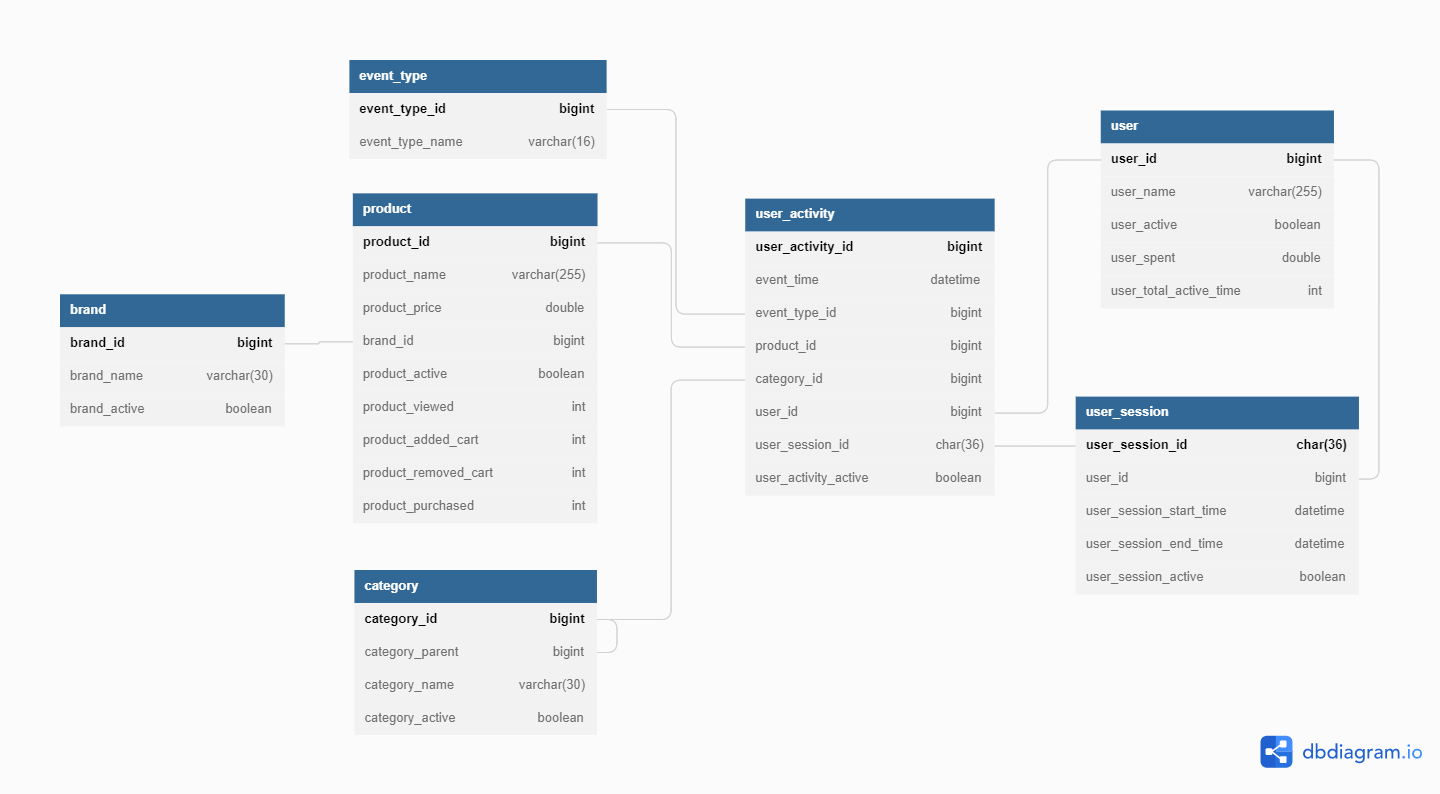
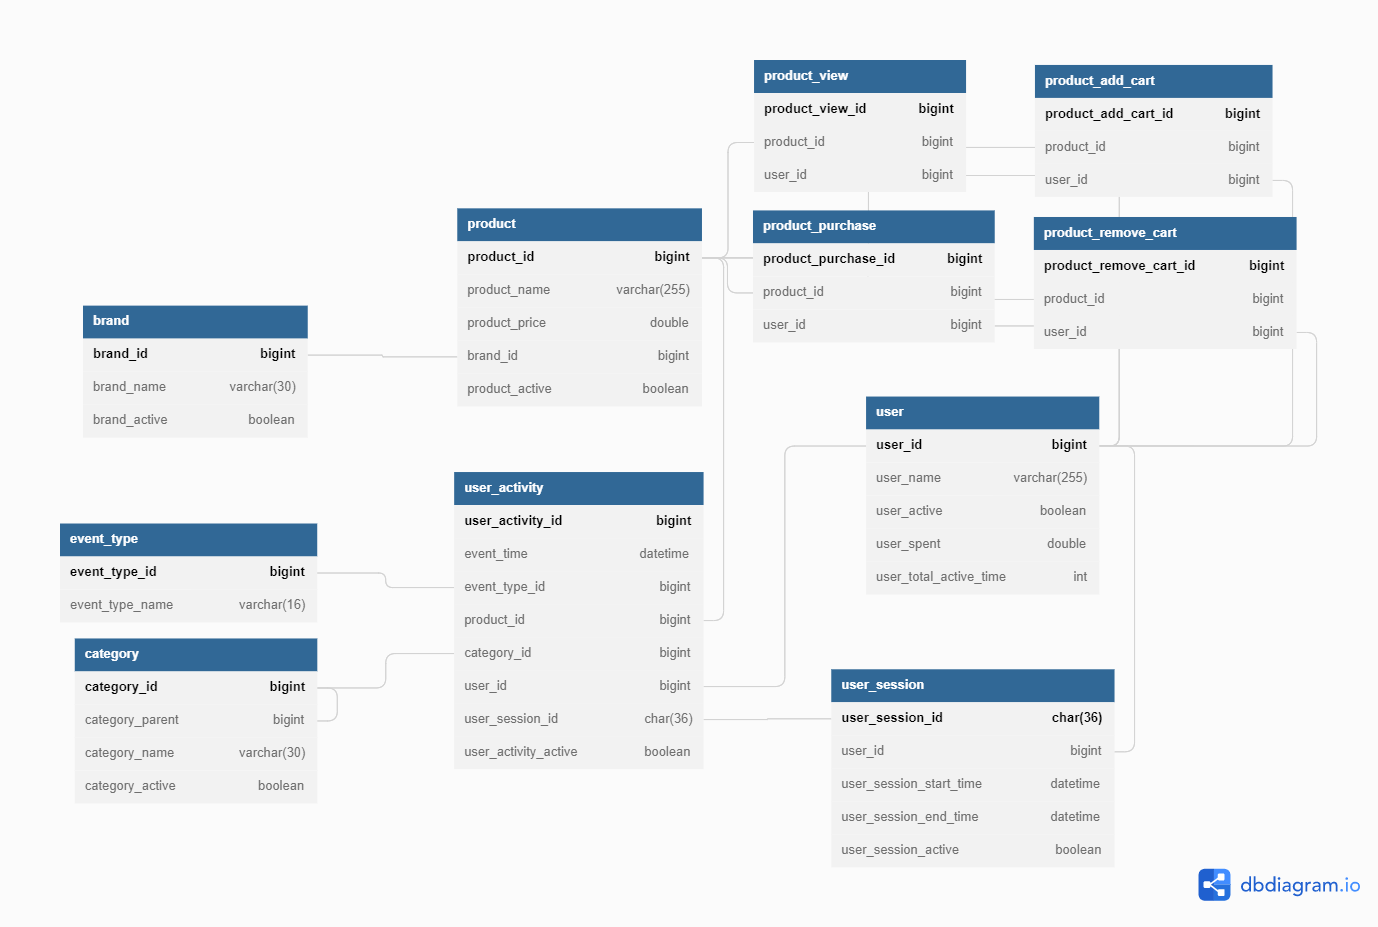
remove event_type lookup in add_user_activity
made it static instead

diff --git a/eCommerce Data Analytics/sql_commands.py b/eCommerce Data Analytics/sql_commands.py
@@ -209,7 +209,7 @@ class SQL:
             # if user_id == None:
             #     raise ValueError("No value for user_id found")
             
-            query = f"INSERT INTO user (user_id, user_name) VALUES ({user_id}, '{user_name}')"
+            query = f"INSERT IGNORE INTO user (user_id, user_name) VALUES ({user_id}, '{user_name}')"
             self.cursor.execute(query)
             self.conn.commit()
         except Exception as e:
@@ -233,7 +233,7 @@ class SQL:
             # if 'user_total_active_time' in data.keys() and not type(data['user_total_active_time']) == int:
             #     raise TypeError("user_total_active_time is not an integer")
             
-            query = self.combine_query_user('user', user_id, data)
+            query = self.combine_query('user', user_id, data)
             self.cursor.execute(query)
             self.conn.commit()
         except Exception as e:
@@ -377,8 +377,7 @@ class SQL:
             if not self.fromTable_id_exists('product', product_id):
                 raise ValueError("product_id does not exist in the database")
             for key in data.keys():
-                if key not in ['product_name', 'product_price', 'brand_id', 'product_active',
-                'product_viewed', 'product_added_cart', 'product_removed_cart', 'product_purchased']:
+                if key not in ['product_name', 'product_price', 'brand_id', 'product_active']:
                     raise NameError(f"{key} is not an acceptable variable for modifying product")
             if 'product_name' in data.keys() and (type(data['product_name']) != str or data["product_name"] == None):
                 raise TypeError("product_name is not a string")
@@ -391,27 +390,6 @@ class SQL:
                     raise TypeError("brand_id is not an string")
             if 'product_active' in data.keys() and type(data['product_active']) != bool:
                 raise TypeError("product_active is not a boolean")
-            if 'product_viewed' in data.keys():
-                if type(data['product_viewed']) != int:
-                    raise TypeError("product_viewed is not an integer")
-                if data['product_viewed'] < 0:
-                    raise ValueError("product_viewed cannot be less than 0")
-            if 'product_added_cart' in data.keys():
-                if type(data['product_added_cart']) != int:
-                    raise TypeError("product_added_cart is not an integer")
-                if data['product_added_cart'] < 0:
-                    raise ValueError("product_added_cart cannot be less than 0")
-            if 'product_removed_cart' in data.keys():
-                if type(data['product_removed_cart']) != int:
-                    raise TypeError("product_removed_cart is not an integer")
-                if data['product_removed_cart'] < 0:
-                    raise ValueError("product_removed_cart cannot be less than 0")
-            if 'product_purchased' in data.keys():
-                if type(data['product_purchased']) != int:
-                    raise TypeError("product_purchased is not an integer")
-                if data['product_purchased'] < 0:
-                    raise ValueError("product_purchased cannot be less than 0")
-            
             query = self.combine_query('product', product_id, data)
             self.cursor.execute(query)
             self.conn.commit()
@@ -432,8 +410,14 @@ class SQL:
             #     raise ValueError("user_session_id does not exist")
             # if category_id and not self.fromTable_id_exists('category',category_id):
             #     raise ValueError("category_id does not exist in the database")
-
-            event_type_id = self.getId_from_name('event_type', event_type)
+            if event_type == "view":
+                event_type_id = 1
+            elif event_type == "cart":
+                event_type_id = 2
+            elif event_type == "remove_from_cart":
+                event_type_id = 3
+            else:
+                event_type_id = 4
             if category_id: 
                 query = "INSERT INTO user_activity (event_time, event_type_id, product_id, category_id, " \
                     "user_id, user_session_id) VALUES " \
@@ -489,7 +473,7 @@ class SQL:
             print(e)
 
     
-    def product_add_event_type(self, product_id, event_type_name):
+    def product_add_event_type(self, product_id, event_type_name, user_id):
         try:
             # if not self.fromTable_id_exists('product', product_id):
             #     raise ValueError("product_id does not exist in the database")
@@ -497,15 +481,19 @@ class SQL:
             #     raise ValueError("event_type_name does not exist in the database")
 
             if event_type_name == "view":
-                event_type_name = "viewed"
+                event_type_name = "view"
             elif event_type_name == "cart":
-                event_type_name = "added_cart"
+                event_type_name = "add_cart"
             elif event_type_name == "remove_from_cart":
                 event_type_name = "removed_cart"
             else:
-                event_type_name = "purchased"
+                event_type_name = "purchase"
+                price = self.getTable_from_id('product', product_id)[2]
+                data = {"user_spent": price}
+                self.modify_user(user_id, **data)
 
-            query = f"UPDATE product SET product_{event_type_name} = product_{event_type_name}+1 WHERE product_id = {product_id}"
+
+            query = f"INSERT INTO product_{event_type_name} (product_id, user_id) VALUES ({product_id}, {user_id})"
             self.cursor.execute(query)
             self.conn.commit()
         except Exception as e:

diff --git a/eCommerce Data Analytics/process_data.py b/eCommerce Data Analytics/process_data.py
@@ -26,8 +26,8 @@ for df in pd.read_csv('D:\\Desktop Folder\\Self Projects\\kaggle-projects\\eComm
         user_session_id = row['user_session']
 
         #Does event_type exist
-        if not mySQL.fromTable_name_exists('event_type', event_type):
-            mySQL.add_event_type(event_type)
+        # if not mySQL.fromTable_name_exists('event_type', event_type):
+        #     mySQL.add_event_type(event_type)
         #Does brand exist
         if brand and not mySQL.fromTable_name_exists('brand', brand):
             mySQL.add_brand(brand)
@@ -56,25 +56,26 @@ for df in pd.read_csv('D:\\Desktop Folder\\Self Projects\\kaggle-projects\\eComm
         except Exception as e:
             print(e)
             continue
-        #Does user_id exist
-        if not mySQL.fromTable_id_exists('user', user_id):
-            mySQL.add_user(user_id)
+        #Does user_id exist if not, add user
+        mySQL.add_user(user_id)
         #Does user_session exist
         if not mySQL.user_session_id_exists(user_session_id):
             mySQL.add_user_session(user_session_id,user_id, event_time)
         #Is user_session_start_time lower than current
-        if mySQL.convert_str_datetime(event_time) < mySQL.getTable_user_session(user_session_id)[2]:
+        current_user_session = mySQL.getTable_user_session(user_session_id)
+        if mySQL.convert_str_datetime(event_time) < current_user_session[2]:
             data = {"user_session_start_time": event_time}
             mySQL.modify_user_session(user_session_id, **data)
         #Is user_session_end_time higher than current
-        if mySQL.convert_str_datetime(event_time) > mySQL.getTable_user_session(user_session_id)[3]:
+        if mySQL.convert_str_datetime(event_time) > current_user_session[3]:
             data = {"user_session_end_time": event_time}
             mySQL.modify_user_session(user_session_id, **data)
         
         #INCREMENT PRODUCT_VIEW/ADDED_CART/PURCHASE
-        mySQL.product_add_event_type(product_id, event_type)
+        mySQL.product_add_event_type(product_id, event_type, user_id)
+        
         #Add the user_activity
-        if category_parent != 'ee7c9258-924f-49d3-b4c8-446541f00dc9':
+        if category_parent != 1:
             mySQL.add_user_activity(user_id, event_type, product_id, user_session_id, event_time, current_category_id)
         else:
             mySQL.add_user_activity(user_id, event_type, product_id, user_session_id, event_time)
